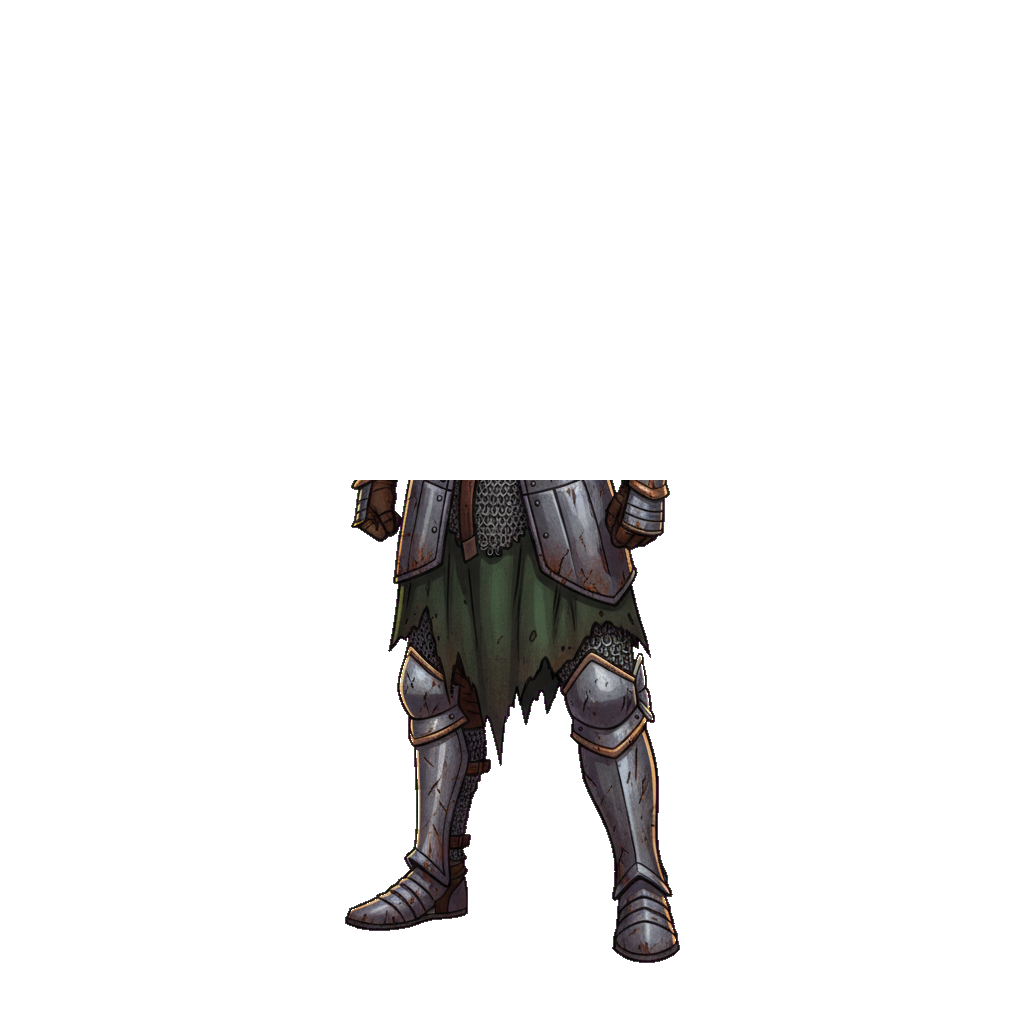
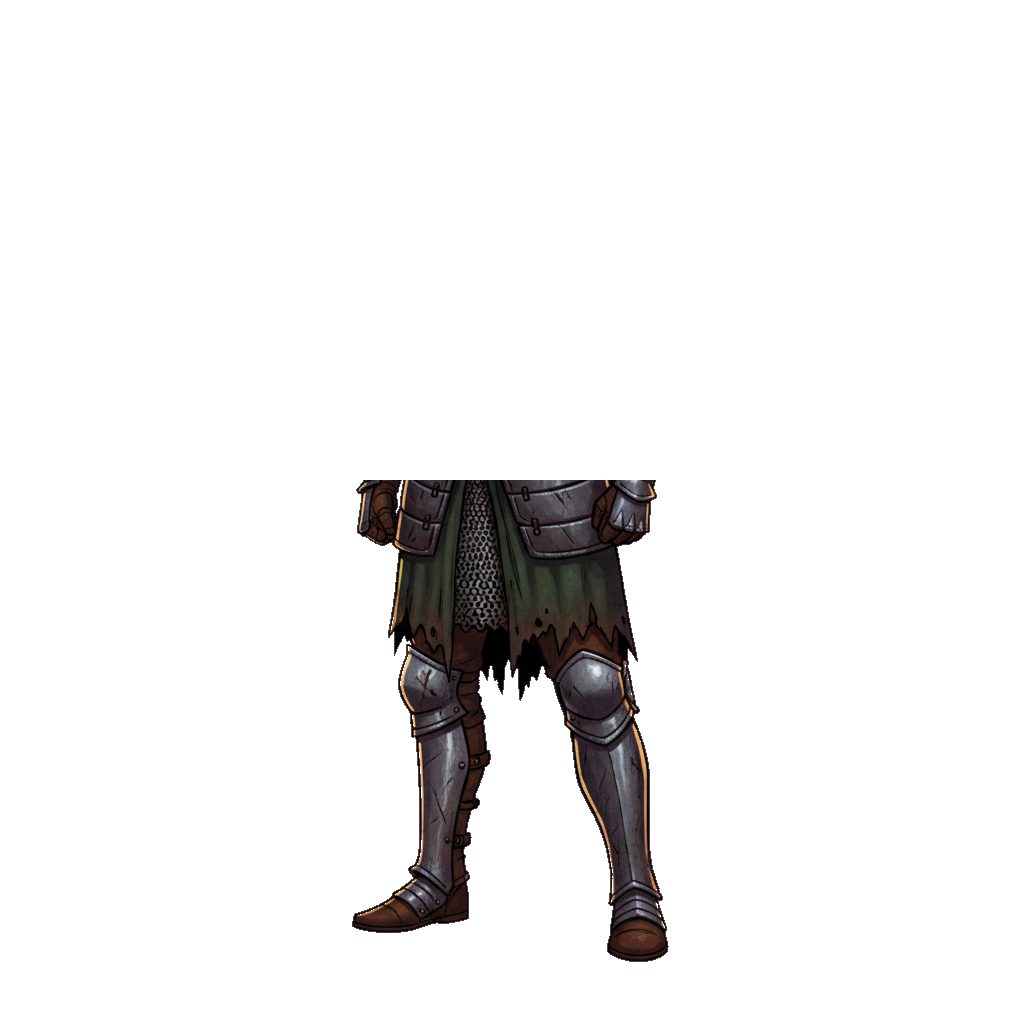
feat(art): update male tier 3 plate armor modular assets, preview and emblem test pipeline

Changed region(s): [[0.3438, 0.4688, 0.6875, 0.9375]]

diff --git a/pipeline/scripts/update_manifests_emblems.py b/pipeline/scripts/update_manifests_emblems.py
@@ -11,15 +11,12 @@ GLOBAL_STYLE_INSTRUCTION = (
     "gritty painterly brushwork, and souls-like mood (Dark Souls, Elden Ring, Gym Oath) of these reference characters.\n"
     "CRITICAL FORMAT & COMPOSITION RULES:\n"
     "- Exactly ONE circular medallion/crest/seal, perfectly centered, filling about 92% of the canvas.\n"
-    "- Background OUTSIDE the circular medallion: pure flat solid black #000000 filling the entire canvas outside the circle. No shapes, no colors, no vignettes outside the circle.\n"
+    "- Background OUTSIDE the circular medallion: pure flat solid black #000000 filling the entire canvas outside the circle.\n"
     "- Medallion rim: thick round rim of dark worn metal with small rivets or simple carved runes, matching the format reference.\n"
-    "- Inside the rim: ONE bold central symbol of the station, big and simple, with strong graphic contrast between the pale symbol and the dark field.\n"
+    "- DEDICATED COLORED BACKGROUND: Inside the circular rim, the background field behind the central symbol is bathed in a rich, luminous, moody atmospheric wash of the station's accent colour.\n"
+    "- Central symbol: ONE bold central symbol of the station, big and simple, with strong graphic contrast between the pale/dark symbol and the luminous colored background field.\n"
     "- Lighting strictly from the upper left.\n"
-    "- Soft inner atmospheric glow in the station's accent colour behind or inside the central symbol.\n"
-    "- STRICT COLOR PALETTE: MONOCHROME BASE ONLY. The entire emblem base is made only of black, charcoal, dark grey, mid grey, light grey, and off-white (like old iron, dark steel, and pale stone). "
-    "ABSOLUTELY NO gold, NO yellow, NO bronze, NO brown, NO rust, NO rainbow hues.\n"
-    "- The ONLY color allowed is the station's own accent colour, used for the glow, the hot/magic parts, and thin highlights.\n"
-    "- Readable as a small icon: few big shapes, strong contrast, no tiny details that turn into noise when scaled to 128x128.\n"
+    "- Inked outlines, hand-painted dark fantasy souls-like feel, strong bold icon readability.\n"
     "- NO text, NO words, NO letters, NO numbers, NO UI frame, NO drop shadow plate."
 )
 
@@ -34,13 +31,11 @@ records = [
             "SUBJECT: Crafting Station Emblem - Carpentry (Woodworking & Bowcraft)\n"
             "STATION ACCENT COLOR: Warm Orange #D9893A (like warm wood and sawdust in lamplight).\n"
             "DETAILS:\n"
-            "- A circular worn dark metal medallion seal with a thick circular rim of dark pitted iron and simple carved runes, identical in size and shape to the set reference.\n"
+            "- A circular worn dark metal medallion seal with a thick circular rim of dark pitted iron and simple carved runes.\n"
+            "- Dedicated colored background: rich warm orange atmospheric wash filling the inner circular field behind the tools.\n"
             "- Central symbol: A traditional carpenter's hand saw crossed with a heavy woodworking axe over a cut tree log round ring (growth rings clearly visible).\n"
-            "- The sharp saw teeth and the concentric log rings catch the warm orange light (#D9893A).\n"
-            "- A few curled wood shavings resting near the bottom inner rim, catching the warm orange glow.\n"
-            "- Everything else (axe head, metal saw blade body, dark iron rim, background field) is strictly monochrome dark charcoal, steel grey, and black. NO brown, NO yellow, NO rust.\n"
-            "- Soft inner glow in warm orange (#D9893A) radiating from behind the central symbol.\n"
-            "- Inked outlines, hand-painted dark fantasy souls-like feel, strong bold icon readability."
+            "- Saw teeth and log rings catch warm orange light, curled wood shavings near the rim.\n"
+            "- Inked outlines, hand-painted dark fantasy souls-like feel."
         ),
         "references": [
             "anvil_golem_idle.png",
@@ -60,20 +55,17 @@ records = [
             "SUBJECT: Crafting Station Emblem - Furnace (Smelting & Refining)\n"
             "STATION ACCENT COLOR: Glowing Molten Red #D2452F (like molten metal, fire and embers).\n"
             "DETAILS:\n"
-            "- A circular worn dark metal medallion seal with a thick circular rim of dark iron and small rivets, identical in size and shape to the set reference.\n"
-            "- Central symbol: A stone smelting furnace mouth (arched opening) with a heavy crucible tilted and pouring a thin stream of glowing red molten metal into an ingot mould below.\n"
-            "- The molten metal stream, ingot mould fill, and furnace arched mouth interior glow vibrant molten red (#D2452F).\n"
-            "- Tiny glowing red embers rise softly into the dark field above the furnace.\n"
-            "- The furnace stones, crucible, ingot mould, and rim are strictly monochrome dark charcoal, grey, and black.\n"
-            "- Soft inner glow in glowing molten red (#D2452F) radiating from inside the furnace mouth.\n"
-            "- Inked outlines, hand-painted dark fantasy souls-like feel, strong bold icon readability."
+            "- A circular worn dark metal medallion seal with a thick circular rim of dark iron and small rivets.\n"
+            "- Dedicated colored background: rich glowing molten red firelight haze and smoke wash filling the inner circular field behind the furnace and crucible.\n"
+            "- Central symbol: A stone smelting furnace mouth (arched opening) with a heavy dark iron crucible tilted and pouring a stream of glowing red molten metal into an ingot mould below.\n"
+            "- Molten metal stream, ingot mould fill, and furnace arched mouth interior glow vibrant molten red with tiny rising embers.\n"
+            "- Inked outlines, hand-painted dark fantasy souls-like feel."
         ),
         "references": [
-            "anvil_golem_idle.png",
-            "living_bellows_idle.png",
-            "station_anvil.png"
+            "station_carpentry.png",
+            "living_bellows_idle.png"
         ],
-        "attempts": 1,
+        "attempts": 2,
         "status": "done"
     },
     {
@@ -87,17 +79,16 @@ records = [
             "STATION ACCENT COLOR: Cold Steel Blue #6E9BC9 and blue-white glowing light.\n"
             "DETAILS:\n"
             "- A circular forged iron medallion seal with a thick circular rim of dark pitted iron and subtle hammered rivets.\n"
-            "- Central symbol: A massive blacksmith anvil seen from the side, with a smith's hammer raised angled above it, "
-            "and a sword blade lying horizontally on the anvil with a blue-white hot glowing line along its cutting edge.\n"
-            "- Steel parts have cold blue highlights (#6E9BC9). The rest is strictly monochrome dark grey, charcoal, and black.\n"
-            "- Soft inner glow in cold steel blue (#6E9BC9) behind and inside the central symbol.\n"
+            "- Dedicated colored background: rich luminous cold steel blue atmospheric quench wash filling the inner circular field behind the anvil and hammer.\n"
+            "- Central symbol: A heavy blacksmith anvil seen from the side, smith's hammer raised angled above it, and a sword blade on the anvil with a blue-white glowing hot cutting edge.\n"
+            "- Strong silhouette contrast against the cold blue background wash.\n"
             "- Inked outlines, hand-painted dark fantasy souls-like feel."
         ),
         "references": [
-            "anvil_golem_idle.png",
-            "living_bellows_idle.png"
+            "station_carpentry.png",
+            "anvil_golem_idle.png"
         ],
-        "attempts": 1,
+        "attempts": 2,
         "status": "done"
     },
     {
@@ -108,27 +99,24 @@ records = [
         "prompt": (
             f"{GLOBAL_STYLE_INSTRUCTION}\n\n"
             "SUBJECT: Crafting Station Emblem - Enchanting (Awakening Weapon Auras)\n"
-            "STATION ACCENT COLOR: Mystic Violet #A77BE0 (mysterious, ethereal magic, not evil or corrupted).\n"
+            "STATION ACCENT COLOR: Mystic Violet #A77BE0 (mysterious, ethereal magic).\n"
             "DETAILS:\n"
-            "- A circular worn dark metal medallion seal with a thick circular rim of dark iron and carved runes, identical in size and shape to the set reference.\n"
+            "- A circular worn dark metal medallion seal with a thick circular rim of dark iron and carved runes.\n"
+            "- Dedicated colored background: rich deep mystic violet arcane nebula wash and ethereal magic haze filling the inner circular field.\n"
             "- Central symbol: A straight knight sword pointing vertically upward, its blade passing cleanly through the center of a faceted cut gemstone or rune stone.\n"
-            "- A ring of small mystical violet runes and delicate four-pointed star sparks floating around the sword blade and gemstone.\n"
-            "- The faceted gemstone, the floating runes, and the star sparks glow ethereal violet (#A77BE0).\n"
-            "- The sword blade, crossguard, hilt, rim, and field are strictly monochrome dark steel, charcoal, and black.\n"
-            "- Soft inner glow in mystic violet (#A77BE0) radiating from the enchanted gemstone.\n"
-            "- Inked outlines, hand-painted dark fantasy souls-like feel, strong bold icon readability."
+            "- Ring of glowing violet runes and four-pointed star sparks around the blade.\n"
+            "- Inked outlines, hand-painted dark fantasy souls-like feel."
         ),
         "references": [
-            "anvil_golem_idle.png",
-            "living_bellows_idle.png",
-            "station_anvil.png"
+            "station_carpentry.png",
+            "living_bellows_idle.png"
         ],
-        "attempts": 1,
+        "attempts": 2,
         "status": "done"
     }
 ]
 
-# 1. Update root manifest.json (dict)
+# Update root manifest.json
 with open(MANIFEST_ROOT, "r", encoding="utf-8") as f:
     root_dict = json.load(f)
 
@@ -139,7 +127,7 @@ with open(MANIFEST_ROOT, "w", encoding="utf-8") as f:
     json.dump(root_dict, f, indent=2)
 print(f"Updated {MANIFEST_ROOT} ({len(root_dict)} entries)")
 
-# 2. Update assets/art/manifest.json (list)
+# Update assets/art/manifest.json
 with open(MANIFEST_ART, "r", encoding="utf-8") as f:
     art_list = json.load(f)
 
@@ -152,7 +140,7 @@ with open(MANIFEST_ART, "w", encoding="utf-8") as f:
     json.dump(new_art_list, f, indent=2)
 print(f"Updated {MANIFEST_ART} ({len(new_art_list)} entries)")
 
-# 3. Update iron-oath-art/manifest.json if exists
+# Update iron-oath-art/manifest.json
 if os.path.exists(MANIFEST_IRON):
     with open(MANIFEST_IRON, "r", encoding="utf-8") as f:
         iron_list = json.load(f)

diff --git a/pipeline/scripts/generate_colored_bg_emblems.py b/pipeline/scripts/generate_colored_bg_emblems.py
@@ -1,0 +1,87 @@
+import os
+import json
+import base64
+import urllib.request
+from PIL import Image
+
+REPO_DIR = r"C:\Users\pissio\Creazione-Gioco-RPG-"
+PIPELINE_DIR = os.path.join(REPO_DIR, "pipeline")
+ENV_PATH = os.path.join(PIPELINE_DIR, ".env")
+
+with open(ENV_PATH, "r", encoding="utf-8") as f:
+    for line in f:
+        if line.startswith("GEMINI_API_KEY="):
+            GEMINI_KEY = line.strip().split("=", 1)[1]
+            break
+
+def load_b64(path, max_dim=512):
+    im = Image.open(path)
+    im.thumbnail((max_dim, max_dim), Image.Resampling.LANCZOS)
+    import io
+    buf = io.BytesIO()
+    im.save(buf, format="PNG")
+    return base64.b64encode(buf.getvalue()).decode("utf-8")
+
+ref_carpentry = os.path.join(REPO_DIR, "assets", "art", "emblems", "station_carpentry.png")
+ref_bellows = os.path.join(REPO_DIR, "assets", "art", "bosses", "living_bellows_idle.png")
+
+FURNACE_PROMPT = (
+    "STYLE & BACKGROUND REFERENCE (Carpentry Emblem):\n"
+    "Notice how the carpentry reference emblem has a rich, dedicated warm atmospheric colored background wash filling the inner circular field behind the tools. We want the EXACT SAME visual structure, but for the FURNACE station with GLOWING MOLTEN RED.\n\n"
+    "CRITICAL COMPOSITION & COLOR RULES:\n"
+    "- Exactly ONE circular medallion/crest/seal, perfectly centered, filling about 92% of the canvas.\n"
+    "- Outside the circular medallion: pure solid black #000000 flat background.\n"
+    "- Medallion rim: thick round rim of dark worn metal with small rivets or simple carved runes, identical to the reference.\n"
+    "- DEDICATED COLORED BACKGROUND: Inside the circular rim, the background field behind the stone furnace and crucible is bathed in a rich, luminous, glowing atmospheric MOLTEN RED (#D2452F) firelight haze and smoke wash, exactly like the dedicated colored background in the carpentry emblem.\n"
+    "- Central symbol: A stone smelting furnace mouth (arched opening) with a heavy dark iron crucible tilted and pouring a stream of glowing red molten metal into an ingot mould below.\n"
+    "- The molten metal stream, ingot mould fill, and furnace arched mouth glow vibrant molten red (#D2452F), with tiny embers rising.\n"
+    "- The stone structure, crucible, and iron rim are dark charcoal and grey, casting strong silhouette contrast against the luminous glowing red background field.\n"
+    "- Inked outlines, hand-painted dark fantasy souls-like feel, strong bold icon readability.\n"
+    "- NO text, no letters, no numbers, no UI frame."
+)
+
+ENCHANT_PROMPT = (
+    "STYLE & BACKGROUND REFERENCE (Carpentry Emblem):\n"
+    "Notice how the carpentry reference emblem has a rich, dedicated warm atmospheric colored background wash filling the inner circular field behind the tools. We want the EXACT SAME visual structure, but for the ENCHANTING station with MYSTIC ARCANE VIOLET.\n\n"
+    "CRITICAL COMPOSITION & COLOR RULES:\n"
+    "- Exactly ONE circular medallion/crest/seal, perfectly centered, filling about 92% of the canvas.\n"
+    "- Outside the circular medallion: pure solid black #000000 flat background.\n"
+    "- Medallion rim: thick round rim of dark worn metal with small rivets or simple carved runes, identical to the reference.\n"
+    "- DEDICATED COLORED BACKGROUND: Inside the circular rim, the background field behind the sword and runes is bathed in a rich, luminous, deep MYSTIC VIOLET (#A77BE0) arcane nebula wash and ethereal magic haze, exactly like the dedicated colored background in the carpentry emblem.\n"
+    "- Central symbol: A straight knight sword pointing vertically upward, its blade passing cleanly through the center of a faceted cut gemstone or rune stone.\n"
+    "- A ring of glowing violet runes and delicate four-pointed star sparks floating around the sword blade and gemstone.\n"
+    "- The faceted gemstone, the floating runes, and the star sparks glow ethereal violet (#A77BE0).\n"
+    "- The sword steel blade, hilt, and iron rim are dark charcoal and steel grey, casting strong silhouette contrast against the luminous mystic violet background field.\n"
+    "- Inked outlines, hand-painted dark fantasy souls-like feel, strong bold icon readability.\n"
+    "- NO text, no letters, no numbers, no UI frame."
+)
+
+def gen(name, prompt, out_p):
+    parts = [
+        {"text": "Background Field Reference (match this rich colored atmospheric background wash behind the symbol):"},
+        {"inlineData": {"mimeType": "image/png", "data": load_b64(ref_carpentry)}},
+        {"text": "Creature inking and shading reference:"},
+        {"inlineData": {"mimeType": "image/png", "data": load_b64(ref_bellows)}},
+        {"text": prompt}
+    ]
+    payload = {"contents": [{"parts": parts}]}
+    url = "https://generativelanguage.googleapis.com/v1beta/models/gemini-2.5-flash-image:generateContent"
+    req = urllib.request.Request(url, data=json.dumps(payload).encode("utf-8"), headers={"Content-Type": "application/json", "x-goog-api-key": GEMINI_KEY})
+    print(f"Generating {name}...")
+    with urllib.request.urlopen(req, timeout=90) as resp:
+        data = json.loads(resp.read().decode("utf-8"))
+        for p in data["candidates"][0]["content"]["parts"]:
+            if "inlineData" in p:
+                raw_bytes = base64.b64decode(p["inlineData"]["data"])
+                with open(out_p, "wb") as f:
+                    f.write(raw_bytes)
+                print(f"Saved {out_p}")
+                break
+
+if __name__ == "__main__":
+    import sys
+    task = sys.argv[1] if len(sys.argv) > 1 else "furnace"
+    if task == "furnace":
+        gen("furnace", FURNACE_PROMPT, "pipeline/output/test_furnace_red_bg_raw.png")
+    elif task == "enchant":
+        gen("enchant", ENCHANT_PROMPT, "pipeline/output/test_enchant_violet_bg_raw.png")

diff --git a/pipeline/scripts/generate_knight_armors.py b/pipeline/scripts/generate_knight_armors.py
@@ -189,6 +189,8 @@ def generate_tier3_piastre(gender='male'):
     base_b64 = B64_MALE_IDLE if is_male else B64_FEMALE_IDLE
     hero_title = "Male Hero" if is_male else "Female Hero"
 
+    male_specific = """  * STEEL CUIRASS COVERS CHEST AND ENTIRE ABDOMEN: A rugged, battle-worn steel plate breastplate/cuirass that COVERS BOTH THE PECTORALS AND THE ABDOMEN down to the belt/waistline (protecting both chest and belly together with forged steel plates). The heavy riveted chainmail hauberk is prominent underneath: visible on the arms/sleeves, shoulders, neck, ribs, and hanging below the belt.""" if is_male else """  * STEEL PLATE CUIRASS COVERS CHEST AND ABDOMEN: Fitted steel cuirass covering both chest and abdomen down to the waistline, with alluring athletic curves. Heavy riveted chainmail visible on shoulders, sleeves, and under the belt."""
+
     prompt = f"""{STYLE_DIRECTIVE}
 
 Reference 1 (Broken Monk) demonstrates the inking line weight, graphic shadow blocks, and dark fantasy comic aesthetic.
@@ -198,8 +200,8 @@ Reference 3 shows the EXACT TARGET INSPIRATION: Classic Spartan Dark Souls Knigh
 TASK:
 Generate the full-body character sprite for the {hero_title} wearing Tier 3 RUDIMENTARY SPARTAN SOULS-STYLE KNIGHT ARMOR in 'Gym Oath':
 - SUBJECT: Rudimentary, basic early-game medieval knight armor inspired by Dark Souls / Demon's Souls:
-  * CHAINMAIL IS PRIMARY & PROMINENT: A heavy, rugged, riveted chainmail hauberk covering the torso, shoulders, arms, and groin.
-  * SMALLER CENTER CHEST PLATE: The steel breastplate over the chest and abdomen is SMALLER and more compact, so that the chainmail is CLEARLY VISIBLE AND PROMINENT around the chestplate, on the ribs, shoulders, neck, and lower torso. Less solid full plate, more exposed battle chainmail!
+{male_specific}
+  * CHAINMAIL IS PRIMARY & PROMINENT: A heavy, rugged, riveted chainmail hauberk covering the shoulders, arms, collar/neck, and lower waist skirt.
   * HELMET (MANDATORY - CLOSED VISOR / A VISO COPERTO): Classic Souls knight fluted helmet / bascinet with a CLOSED STEEL VISOR, narrow horizontal eye slit, and neck gorget. Face is fully covered.
   * LIMBS & WAIST: Asymmetrical battle-worn steel shoulder pauldron strapped over chainmail, articulated steel vambraces, tattered dark green cloth/chainmail skirt beneath the belt, and steel greaves over chainmail legs and sabatons.
   * AESTHETIC: Rudimentary, spartan, gritty battle-worn steel and chainmail (siamo ancora a livelli bassi!).
@@ -218,7 +220,7 @@ Generate the full-body character sprite for the {hero_title} wearing Tier 3 RUDI
     parts.append({'text': prompt})
 
     out_name = f"{gender}_tier3_piastre"
-    print(f"Generating Tier 3 Rudimentary Spartan Souls Knight for {gender} (Chainmail Prominent, Small Plate, Closed Visor)...")
+    print(f"Generating Tier 3 Rudimentary Spartan Souls Knight for {gender} (Cuirass covers Chest & Abdomen, Chainmail Prominent, Closed Visor)...")
     img_data = call_gemini(parts)
     if img_data:
         raw_p = os.path.join(OUTPUT_DIR, f"{out_name}_raw.png")
